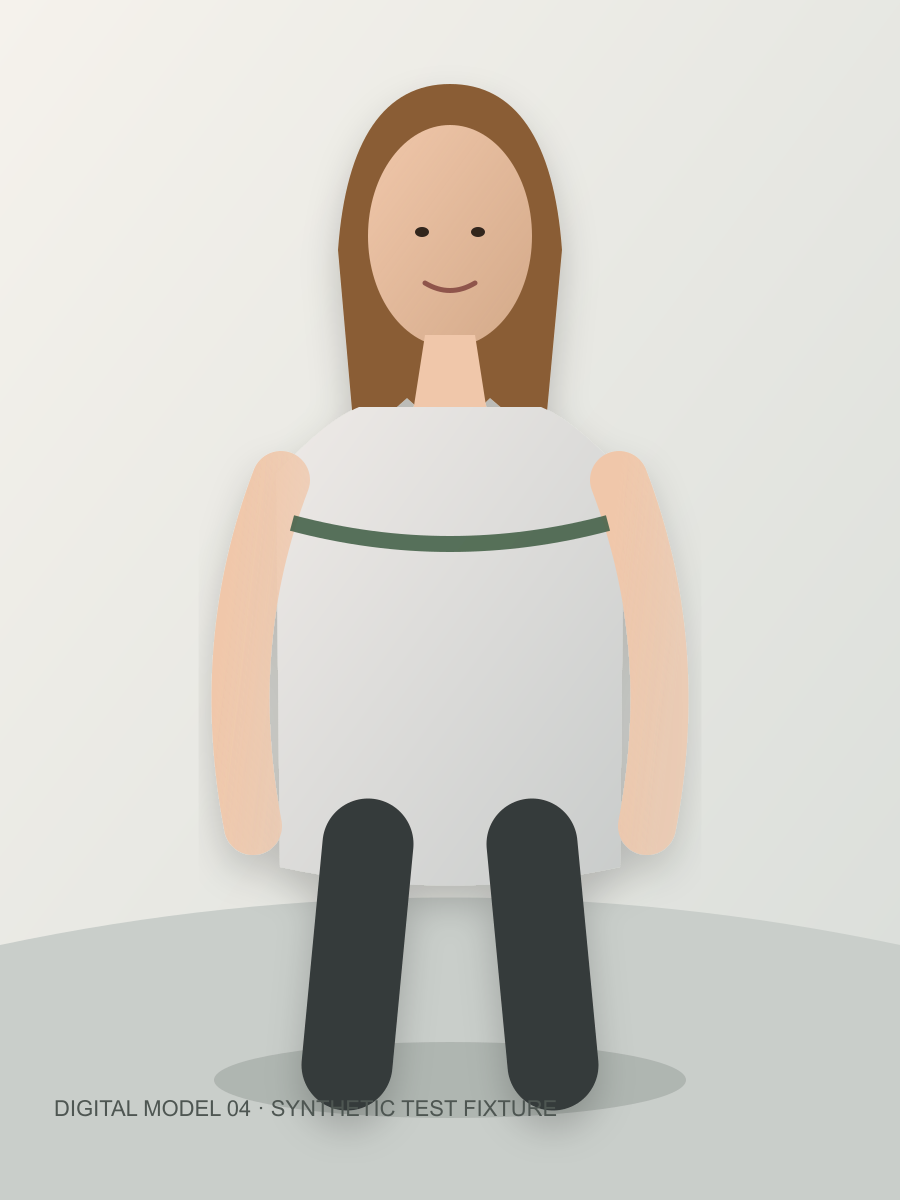
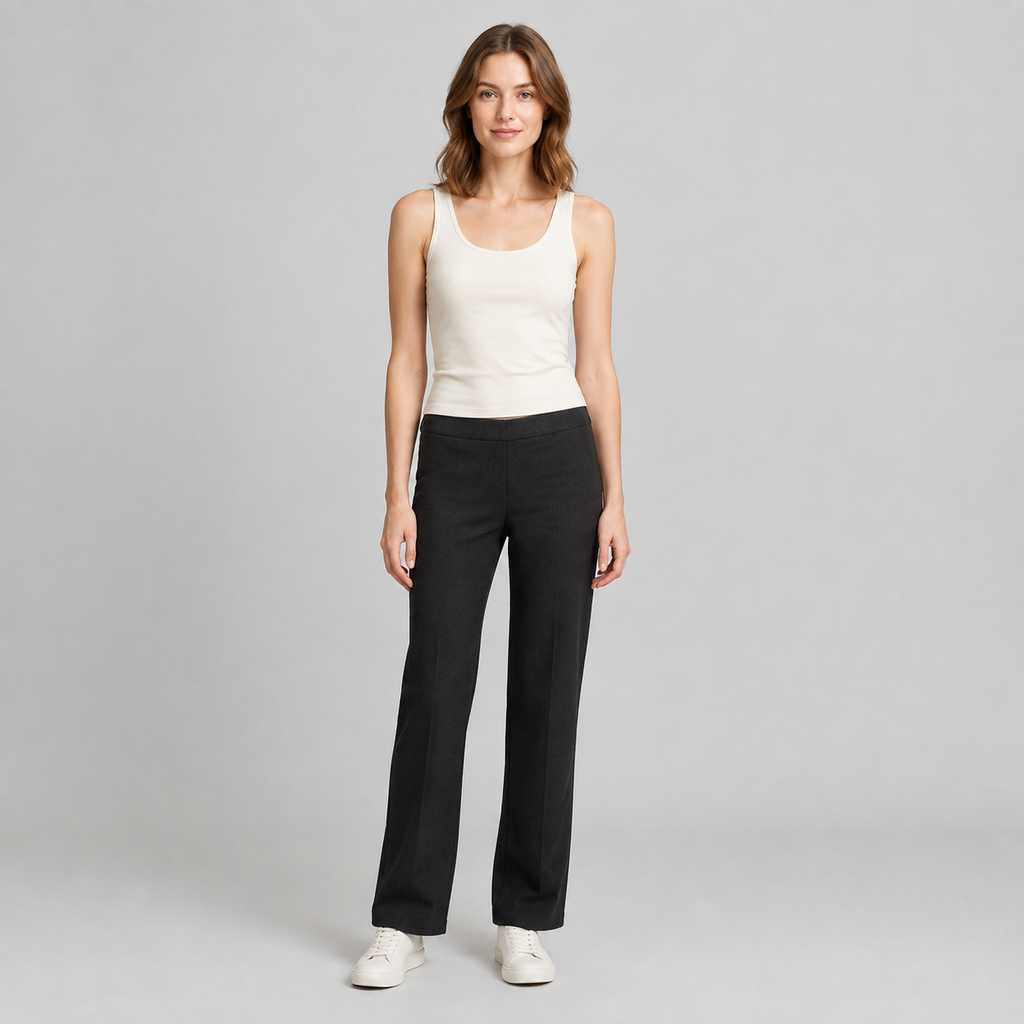
feat: replace demo models with generated assets

diff --git a/docs/demo-assets.md b/docs/demo-assets.md
@@ -4,11 +4,11 @@
 
 ## 包含内容
 
-- 8 张 ModelShot 自制的无真实身份数字模特图，覆盖现有性别、体型和展示分类。
+- 8 张使用 Letaicode `gpt-image-2` 生成的无真实身份数字模特图，覆盖现有性别、体型和展示分类。
 - 6 张场景图：2 张自制影棚背景，4 张经 Wikimedia Commons 核验为 CC0 的城市、室内、公园和海滩图片。
 - 5 张服装图，来自 The Metropolitan Museum of Art Open Access，作品 API 标记为 Public Domain，图片以 CC0 提供。
 
-完整的作者、来源页面、许可证、原始下载地址和 SHA-256 记录在 `scripts/demo-assets.manifest.json`。服装图随镜像发布，初始化不依赖服务器访问外部图片站点；写入后仍是用户私有 S3 对象。
+完整的作者、来源页面、许可证、原始下载地址和 SHA-256 记录在 `scripts/demo-assets.manifest.json`。模特图的再分发须遵守中转站和图像模型服务条款；影棚背景仍是 ModelShot 自制 CC0 素材。服装图随镜像发布，初始化不依赖服务器访问外部图片站点；写入后仍是用户私有 S3 对象。
 
 ## 服务器执行
 
@@ -35,6 +35,14 @@ npm run seed:demo -- --user-email=you@example.com
 npm run check:demo-assets
 ```
 
+需要重新生成模特图时，使用不写入密钥的批量脚本。它默认调用 `https://api.letaicode.cn/codex/images/generations` 和 `gpt-image-2`，生成完成后会覆盖 `public/presets/models/model-01.png` 至 `model-08.png`；生成后必须重新运行 `npm run check:demo-assets`，并按服务条款确认输出的再分发权限：
+
+```bash
+LETAICODE_API_KEY=你的中转站密钥 npm run generate:demo-models
+```
+
+只重生成指定编号时可设置 `DEMO_MODEL_INDICES=2,8`。
+
 ## 授权边界
 
-素材清单中的 CC0 状态是初始化集制作时从 The Met API 和 Wikimedia Commons 文件页核验的结果。数字模特不对应真人，因此没有第三方肖像授权问题。正式上线前仍应换成已签署模特授权、与目标市场和商品匹配的生产素材；演示集不构成对任何商标、文化语境或商品适用性的保证。
+素材清单中的 CC0 状态是初始化集制作时从 The Met API 和 Wikimedia Commons 文件页核验的结果，仅适用于对应服装和场景。数字模特由图像服务生成，不对应真人，但不自动构成 CC0；正式对外分发前请按中转站和模型服务条款确认权利范围。正式上线前仍应换成已签署模特授权、与目标市场和商品匹配的生产素材；演示集不构成对任何商标、文化语境或商品适用性的保证。
